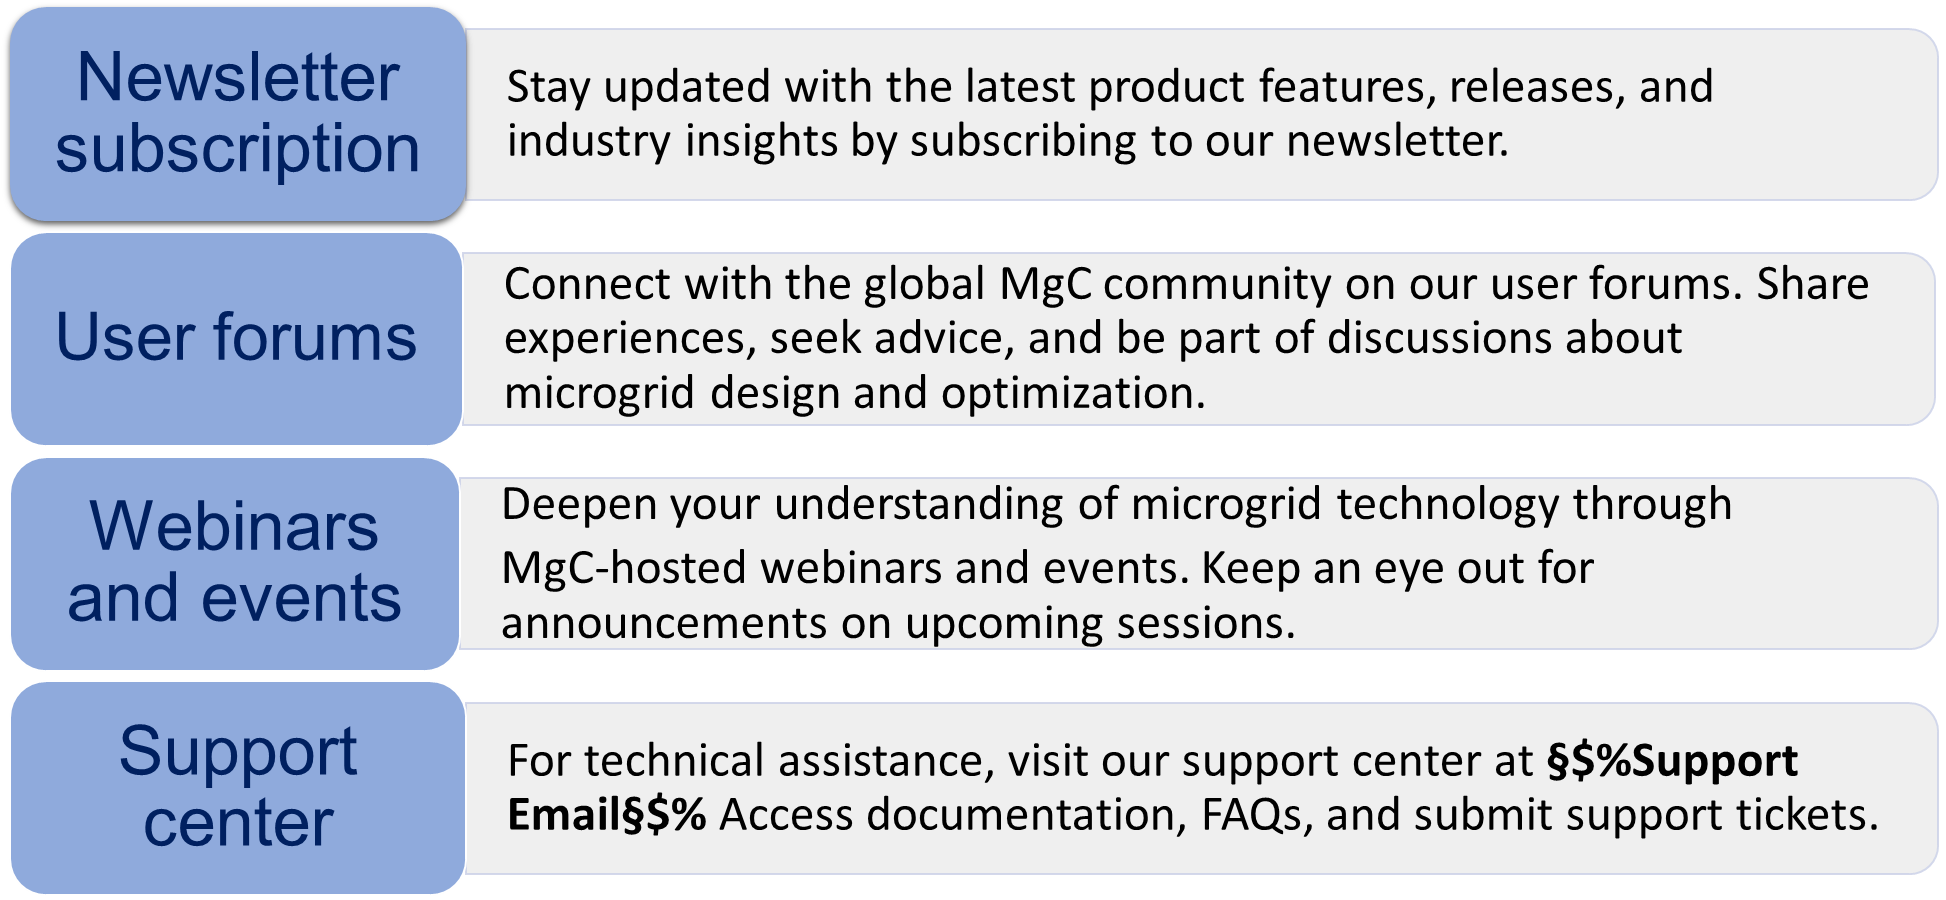
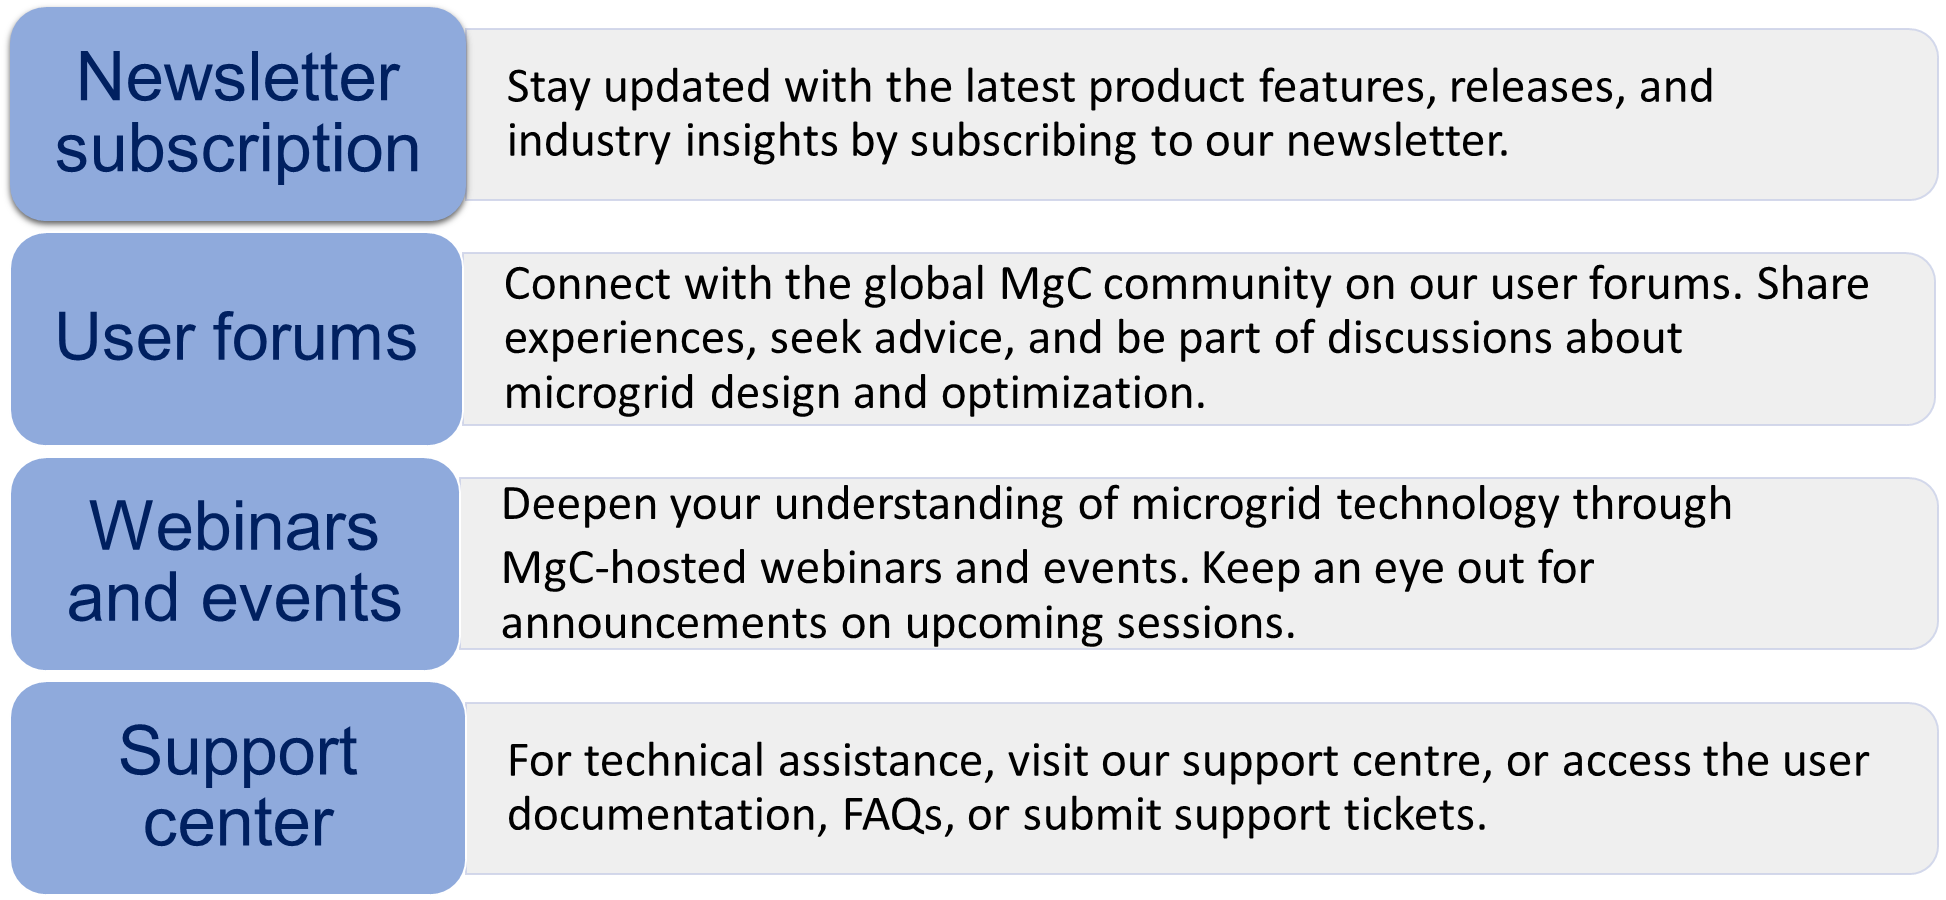
GITBOOK-176: No subject

Changed region(s): [[0.2467, 0.8089, 0.9558, 0.9333]]

diff --git a/README.md b/README.md
@@ -1,59 +1,24 @@
 ---
-description: >-
-  MicrogridCreator: Streamlined simulation and optimization of microgrids.
-  Simplifying complex decentralized energy systems for developers and end-users.
-  Cloud-based for seamless accessibility.
-coverY: 0
+layout:
+  title:
+    visible: true
+  description:
+    visible: true
+  tableOfContents:
+    visible: true
+  outline:
+    visible: true
+  pagination:
+    visible: true
 ---
 
-# MicrogridCreator (MgC)
+# Table of contents
 
-**MicrogridCreator** is a powerful and easy-to-use microgrid simulation and optimization engine. It helps developers and end users plan, design and optimize complex sector-coupled decentralized energy systems. The final version of **MicrogridCreator** is a cloud-based service that can run independently of the end-user's device. The Microgrid Creator tool holds immense potential for designing efficient and resilient microgrid systems, enabling optimized energy management and sustainable power distribution.
+Discover the power of MgC with our Table of Contents. Dive into microgrid design and optimization with this user documentationeffortlessly.
 
-### Advantages
 
-1. ### Simple and ease-of-use
 
-<figure><img src=".gitbook/assets/steps-normalized-light-grey.png" alt=""><figcaption><p>Simple Application</p></figcaption></figure>
+In the first section of the documentation, you could find the insights and potential of the MgC along with the system requirements also a quick guide to the MgC.
 
-In 4 steps to your goal:
 
-* Define the framework of your system
-* Set the goal of your optimization
-* Run the simulation
-* Analyze the results
 
-2. **Data visualization & export**
-
-<figure><img src=".gitbook/assets/data-visualization-normalized-1.jpg" alt=""><figcaption><p>Comprehensive data visualization features</p></figcaption></figure>
-
-The extensive visualization features give you a quick overview of the most important parameters and optimization results.
-
-* Both the technical and the economic key figures can be recorded as time series data and summary overview.
-* Export the data in the format you need for integration into your workflow.
-
-Seeing what really matters at a glance saves you a lot of time and effort.
-
-3. **Work flexibility**
-
-<figure><img src=".gitbook/assets/work-normalized-1.jpg" alt=""><figcaption></figcaption></figure>
-
-Manage your project on any device at any time.
-
-* Start a new project in the office,
-* deal with it more closely on the way to your customers,
-* change it when meeting with your project partners.
-
-**MicrogridCreator** 's cloud concept enables you to work together on your projects whenever you want.
-
-4. **Learning & Teaching**
-
-<figure><img src=".gitbook/assets/learning-normalized-1.jpg" alt=""><figcaption></figcaption></figure>
-
-**MicrogridCreator helps you** to better understand how your optimized energy system works  . You can use **MicrogridCreator** to:
-
-* &#x20;learn  more about system design and management in general
-* advise your business customers&#x20;
-* To teach students in an academic context
-
-**MicrogridCreator** 's academic background enables it to be widely used in many different contexts.

diff --git a/README (1).md b/README (1).md
@@ -1,0 +1,59 @@
+---
+description: >-
+  MicrogridCreator: Streamlined simulation and optimization of microgrids.
+  Simplifying complex decentralized energy systems for developers and end-users.
+  Cloud-based for seamless accessibility.
+coverY: 0
+---
+
+# MicrogridCreator (MgC)
+
+**MicrogridCreator** is a powerful and easy-to-use microgrid simulation and optimization engine. It helps developers and end users plan, design and optimize complex sector-coupled decentralized energy systems. The final version of **MicrogridCreator** is a cloud-based service that can run independently of the end-user's device. The Microgrid Creator tool holds immense potential for designing efficient and resilient microgrid systems, enabling optimized energy management and sustainable power distribution.
+
+### Advantages
+
+1. ### Simple and ease-of-use
+
+<figure><img src=".gitbook/assets/steps-normalized-light-grey.png" alt=""><figcaption><p>Simple Application</p></figcaption></figure>
+
+In 4 steps to your goal:
+
+* Define the framework of your system
+* Set the goal of your optimization
+* Run the simulation
+* Analyze the results
+
+2. **Data visualization & export**
+
+<figure><img src=".gitbook/assets/data-visualization-normalized-1.jpg" alt=""><figcaption><p>Comprehensive data visualization features</p></figcaption></figure>
+
+The extensive visualization features give you a quick overview of the most important parameters and optimization results.
+
+* Both the technical and the economic key figures can be recorded as time series data and summary overview.
+* Export the data in the format you need for integration into your workflow.
+
+Seeing what really matters at a glance saves you a lot of time and effort.
+
+3. **Work flexibility**
+
+<figure><img src=".gitbook/assets/work-normalized-1.jpg" alt=""><figcaption></figcaption></figure>
+
+Manage your project on any device at any time.
+
+* Start a new project in the office,
+* deal with it more closely on the way to your customers,
+* change it when meeting with your project partners.
+
+**MicrogridCreator** 's cloud concept enables you to work together on your projects whenever you want.
+
+4. **Learning & Teaching**
+
+<figure><img src=".gitbook/assets/learning-normalized-1.jpg" alt=""><figcaption></figcaption></figure>
+
+**MicrogridCreator helps you** to better understand how your optimized energy system works  . You can use **MicrogridCreator** to:
+
+* &#x20;learn  more about system design and management in general
+* advise your business customers&#x20;
+* To teach students in an academic context
+
+**MicrogridCreator** 's academic background enables it to be widely used in many different contexts.

diff --git a/glossary/definitions.md b/glossary/definitions.md
@@ -43,10 +43,12 @@ Similarly, resources are indicated in the same manner as described above.
 
 This identical approach is seamlessly extended to denote loads within the system.
 
-<table><thead><tr><th width="87">ID</th><th>Type of loads</th></tr></thead><tbody><tr><td>L1</td><td>Electric-load</td></tr><tr><td>L2</td><td>Cooling.load</td></tr><tr><td>L3</td><td>Healting-load</td></tr></tbody></table>
+<table><thead><tr><th width="87">ID</th><th>Type of loads</th></tr></thead><tbody><tr><td>L1</td><td>Electric-loads (battery, e-loads, charging stations, electric vehicles etc)</td></tr><tr><td>L2</td><td>Cooling.loads (hot storage, heat loads etc)</td></tr><tr><td>L3</td><td>Healting-loads (cooling loads, cold storage, etc)</td></tr></tbody></table>
 
 ### Groupings
 
 The solver leverages the categorized groupings of resources, loads, and technologies in MgC, optimizing efficiency and enabling effective problem-solving.
 
 <table><thead><tr><th width="88.33333333333331">ID</th><th width="259">Group name</th><th>Types included</th></tr></thead><tbody><tr><td>TG1</td><td>Dispatchable</td><td>T3, T6, T7, T8, T9, T12, T14</td></tr><tr><td>TG2</td><td>Non-Dispatchable</td><td>T1, T2</td></tr><tr><td>TG3</td><td>Storage</td><td>T4, T10, T11</td></tr><tr><td>TG4</td><td>Other</td><td>-</td></tr><tr><td>TG5</td><td>Energy demand-electricity</td><td>T8, T9, T12, T14, T13</td></tr><tr><td>TG6</td><td>Energy generation-cold</td><td>T12</td></tr><tr><td>TG7</td><td>Energy generators-electricity</td><td>T1, T2, T3, T6</td></tr><tr><td>TG8</td><td>Energy generators-heat</td><td>T3, T7, T8, T9</td></tr><tr><td>LG1</td><td>Total demand</td><td>L1, L2, L3</td></tr><tr><td>RG1</td><td>Grid import</td><td>All element with type “rsc” whose energy value is &#x3C; 0</td></tr><tr><td>RG2</td><td>Renewables</td><td>All element with type “ugn” whose energy value is &#x3C; 0</td></tr><tr><td>RG3</td><td>Feed-in</td><td>All element with type “rsc” and __typename “Carrier” whose energy value is > 0</td></tr><tr><td>RG4</td><td>Generation</td><td>T5, R2</td></tr><tr><td>RG5</td><td>Demand</td><td>R4</td></tr></tbody></table>
+
+For additional information about MgC or if you need support, kindly find further assistance on the next page [stay connected and updated](stay-connected-and-updated.md) for comprehensive assistance.

diff --git a/SUMMARY.md b/SUMMARY.md
@@ -1,6 +1,7 @@
 # Table of contents
 
-* [MicrogridCreator (MgC)](README.md)
+* [Table of contents](README.md)
+* [MicrogridCreator (MgC)](<README (1).md>)
   * [MgC features](microgridcreator-mgc/mgc-features.md)
   * [System requirements](microgridcreator-mgc/system-requirements.md)
   * [Getting started](microgridcreator-mgc/getting-started.md)
@@ -13,11 +14,11 @@
     * [Branch creation and setup](user-interface-ui-navigation/project-setup-and-simulation/branch-creation-and-setup.md)
     * [Component creation and setup](user-interface-ui-navigation/project-setup-and-simulation/component-creation-and-setup.md)
     * [Project simulation](user-interface-ui-navigation/project-setup-and-simulation/project-simulation.md)
-    * [Project results](user-interface-ui-navigation/project-setup-and-simulation/project-results.md)
-  * [Save and exporting the project](user-interface-ui-navigation/save-and-exporting-the-project.md)
 * [Data analysis and visualization](data-analysis-and-visualization/README.md)
   * [Sensitivity analysis](data-analysis-and-visualization/sensitivity-analysis.md)
   * [Key Performance Indicators(KPI´s)](data-analysis-and-visualization/key-performance-indicators-kpi-s.md)
+  * [Project results](data-analysis-and-visualization/project-results.md)
+  * [Save and exporting the project](data-analysis-and-visualization/save-and-exporting-the-project.md)
 * [Modeling and Optimization](modeling-and-optimization/README.md)
   * [Modeling](modeling-and-optimization/modeling/README.md)
     * [Modeling approach](modeling-and-optimization/modeling/modeling-approach.md)

diff --git a/data-analysis-and-visualization/key-performance-indicators-kpi-s.md b/data-analysis-and-visualization/key-performance-indicators-kpi-s.md
@@ -96,4 +96,4 @@ Explore the KPIs that steer project towards cost-efficiency, reduced emissions, 
 
 As part of MgC (Microgrid Control), the system overview showcases post-simulation results, presenting the project's essential Key Performance Indicators (KPIs) in the report. This feature provides precise and relevant data for assessing and optimizing the system's key parameters, offering valuable insights for informed decision-making and performance evaluation within the microgrid. Utilizing MgC's insights into these factors optimizes project outcomes, promoting efficiency and sustainability.
 
-<figure><img src="../.gitbook/assets/image (1).png" alt="" width="563"><figcaption><p>Performance indicators after the project simulation</p></figcaption></figure>
+<figure><img src="../.gitbook/assets/image (1) (1).png" alt="" width="563"><figcaption><p>Performance indicators after the project simulation</p></figcaption></figure>

diff --git a/glossary/stay-connected-and-updated.md b/glossary/stay-connected-and-updated.md
@@ -2,6 +2,8 @@
 
 We value your experience with MgC and want to ensure you stay connected for ongoing updates, support, and community engagement. Here are ways to stay connected:
 
-<figure><img src="../.gitbook/assets/image.png" alt=""><figcaption><p>Ways to be connected with MgC for updates.</p></figcaption></figure>
+<figure><img src="../.gitbook/assets/image.png" alt=""><figcaption></figcaption></figure>
+
+For additional assistance, feel free to reach out to our support center <mark style="color:blue;">contact@energenious.eu</mark> or <mark style="color:blue;">support@energenious.eu</mark> with just a click. We're here to help and provide the support you need.
 
 Remember, your connection with MgC goes beyond the software – it's about being part of a vibrant community shaping the future of microgrid solutions. Stay connected, stay informed, and make the most of your MgC experience!
